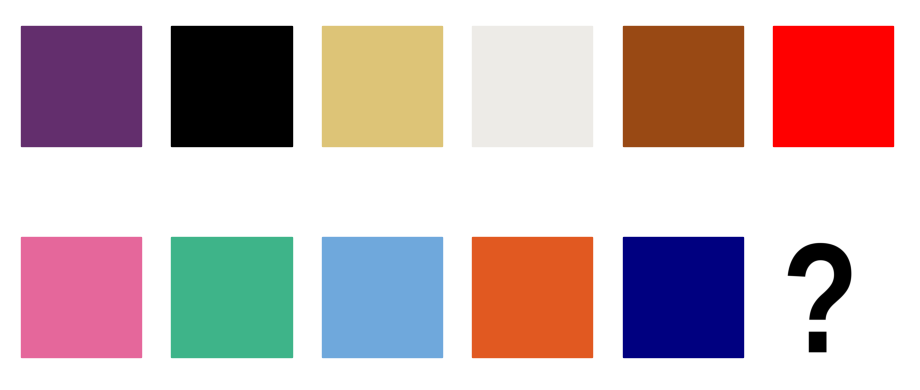
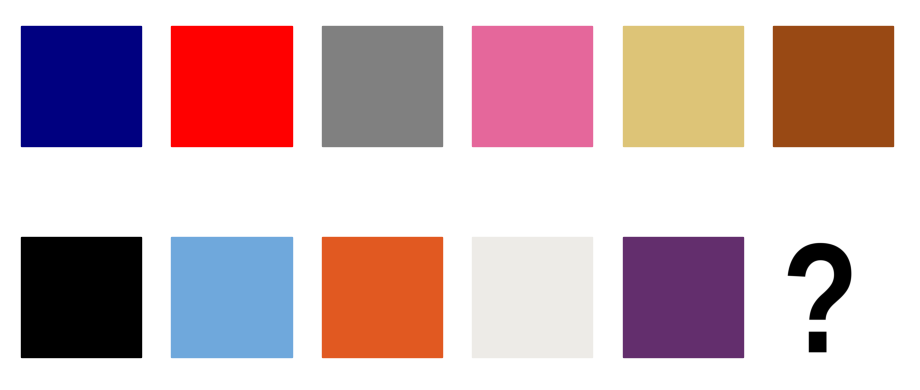
Added shortcuts
Added following mappings:
{'debut':'Taylor Swift',
           'rep':'Reputation',
           'ttpd':'The Tortured Poets Department',
           'tloas':'The Life of a Showgirl'}
--> Need to also add Reputation

diff --git a/.ipynb_checkpoints/app-checkpoint.py b/.ipynb_checkpoints/app-checkpoint.py
@@ -17,6 +17,10 @@ app.secret_key = os.getenv("FLASK_SECRET_KEY")
 
 answer = config.answer
 SESSION_KEYS = ["image", "answer", "start_time", "best_album", "best"]
+uf_dict = {'debut':'Taylor Swift',
+           'rep':'Reputation',
+           'ttpd':'The Tortured Poets Department',
+           'tloas':'The Life of a Showgirl'} 
 
 @app.route("/", methods=["GET", "POST"])
 def play():
@@ -41,6 +45,7 @@ def play():
 
     if request.method == "POST":
         guess = request.form.get("guess", "")
+        guess = uf_dict[guess] if guess.lower() in uf_dict.keys() else guess
         best_match = handlers.close_matching(guess)
         time_taken = round(time.time() - start_time, 2)  
 
@@ -94,6 +99,10 @@ def play():
         album_img=old_guess,
         best_album=best_album
     )
+
[email redacted]("/robots.txt")
+def robots():
+    return "User-agent: *\nDisallow:", 200, {"Content-Type": "text/plain"}
 
 if __name__ == "__main__":
     app.run(host="0.0.0.0", port=8080, debug=True)

diff --git a/app.py b/app.py
@@ -17,6 +17,10 @@ app.secret_key = os.getenv("FLASK_SECRET_KEY")
 
 answer = config.answer
 SESSION_KEYS = ["image", "answer", "start_time", "best_album", "best"]
+uf_dict = {'debut':'Taylor Swift',
+           'rep':'Reputation',
+           'ttpd':'The Tortured Poets Department',
+           'tloas':'The Life of a Showgirl'} 
 
 @app.route("/", methods=["GET", "POST"])
 def play():
@@ -41,6 +45,7 @@ def play():
 
     if request.method == "POST":
         guess = request.form.get("guess", "")
+        guess = uf_dict[guess] if guess.lower() in uf_dict.keys() else guess
         best_match = handlers.close_matching(guess)
         time_taken = round(time.time() - start_time, 2)  
 
@@ -94,6 +99,10 @@ def play():
         album_img=old_guess,
         best_album=best_album
     )
+
[email redacted]("/robots.txt")
+def robots():
+    return "User-agent: *\nDisallow:", 200, {"Content-Type": "text/plain"}
 
 if __name__ == "__main__":
     app.run(host="0.0.0.0", port=8080, debug=True)